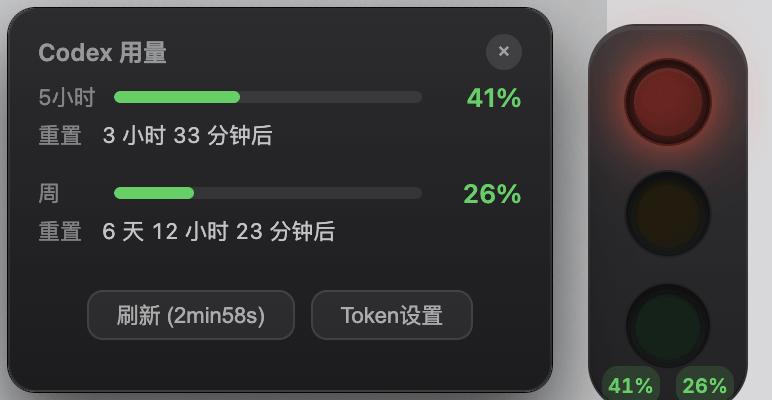
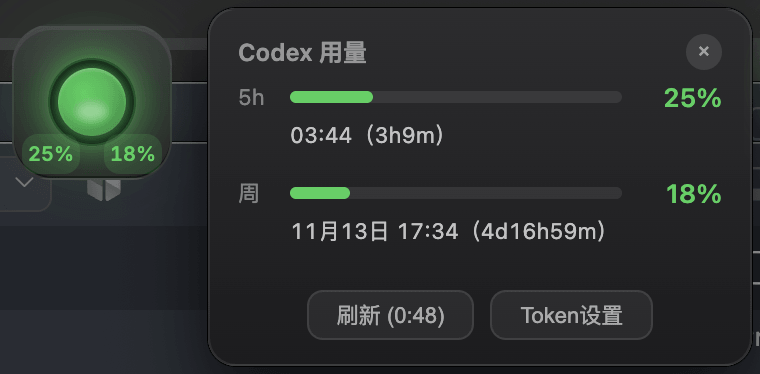
feat: 优化 Codex 用量倒计时格式及进度条对齐

diff --git a/public/chatgpt-tooltip.html b/public/chatgpt-tooltip.html
@@ -50,13 +50,12 @@
     transition: width 0.5s ease;
   }
   .details {
-    display: grid; grid-template-columns: auto 1fr;
-    gap: 2px 10px; font-size: 11px;
+    font-size: 11px;
     margin-top: 4px;
+    padding-left: 26px;
     -webkit-app-region: drag;
   }
-  .label { opacity: 0.5; text-align: right; }
-  .value { opacity: 0.85; font-variant-numeric: tabular-nums; }
+  .value { opacity: 0.85; font-variant-numeric: tabular-nums; white-space: nowrap; }
   .btn-row {
     display: flex; justify-content: center; gap: 8px;
     margin-top: 8px;
@@ -129,7 +128,7 @@
     margin-bottom: 4px;
   }
   .window-name {
-    font-size: 11px; opacity: 0.5; min-width: 32px;
+    font-size: 11px; opacity: 0.5; width: 20px; flex-shrink: 0;
   }
   .window-percent {
     font-size: 13px; font-weight: 600; min-width: 44px; text-align: right;
@@ -216,16 +215,22 @@
       resizeObserver.observe(panel);
     }
 
+    // 格式化倒计时（如 3h30m、4d23h34m）
     function formatResetTime(seconds) {
-      if (seconds < 60) return seconds + ' 秒';
+      if (!seconds || seconds <= 0) return '';
+      if (seconds < 60) return seconds + 's';
       var min = Math.ceil(seconds / 60);
-      if (min < 60) return min + ' 分钟';
+      if (min < 60) return min + 'm';
       var h = Math.floor(min / 60);
       var m = min % 60;
-      if (h < 24) return h + ' 小时' + (m > 0 ? ' ' + m + ' 分钟' : '');
+      if (h < 24) return h + 'h' + (m > 0 ? m + 'm' : '');
       var d = Math.floor(h / 24);
       var rh = h % 24;
-      return d + ' 天' + (rh > 0 ? ' ' + rh + ' 小时' : '') + (m > 0 ? ' ' + m + ' 分钟' : '');
+      var res = d + 'd';
+      // 存在天数时拼接天、时、分
+      if (rh > 0 || m > 0) res += rh + 'h';
+      if (m > 0) res += m + 'm';
+      return res;
     }
 
     function formatResetAt(resetAt, isWeekly) {
@@ -246,11 +251,13 @@
       var resetStr = formatResetTime(windowData.resetAfterSeconds);
       var isWeekly = name === '周';
       var resetAtStr = windowData.resetAt ? formatResetAt(windowData.resetAt, isWeekly) : '';
-      var resetLabel;
-      if (isWeekly) {
+      var resetLabel = '';
+      if (resetAtStr && resetStr) {
+        resetLabel = resetAtStr + '（' + resetStr + '）';
+      } else if (resetAtStr) {
         resetLabel = resetAtStr;
-      } else {
-        resetLabel = resetAtStr ? resetAtStr + '（' + resetStr + '后）' : resetStr + '后';
+      } else if (resetStr) {
+        resetLabel = resetStr;
       }
 
       return '<div class="window-section">' +
@@ -261,9 +268,7 @@
           '</div>' +
           '<span class="window-percent" style="color:' + barColor + '">' + pct + '%</span>' +
         '</div>' +
-        '<div class="details">' +
-          '<span class="label">重置</span><span class="value">' + resetLabel + '</span>' +
-        '</div>' +
+        (resetLabel ? '<div class="details"><span class="value">' + resetLabel + '</span></div>' : '') +
       '</div>';
     }
 
@@ -295,13 +300,13 @@
 
       // primary 窗口：根据 windowSeconds 自动判断标签
       if (data.primary) {
-        var primaryLabel = data.primary.windowSeconds >= 86400 ? '周' : '5小时';
+        var primaryLabel = data.primary.windowSeconds >= 86400 ? '周' : '5h';
         html += renderWindow(primaryLabel, data.primary);
       }
 
       // secondary 窗口（仅当与 primary 不同时显示）
       if (data.secondary) {
-        var secondaryLabel = data.secondary.windowSeconds >= 86400 ? '周' : '5小时';
+        var secondaryLabel = data.secondary.windowSeconds >= 86400 ? '周' : '5h';
         html += renderWindow(secondaryLabel, data.secondary);
       }
 
